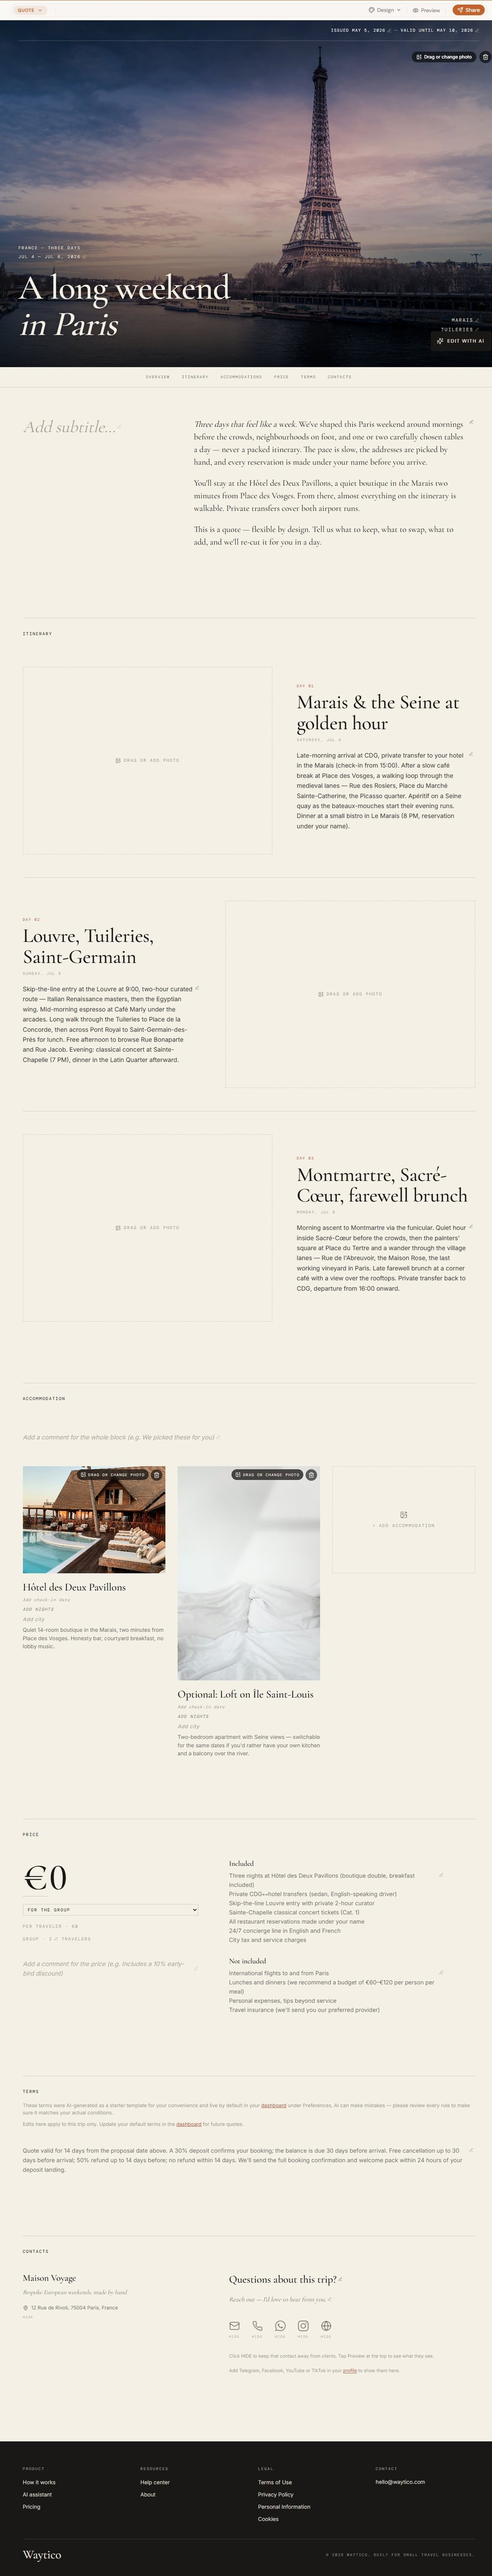
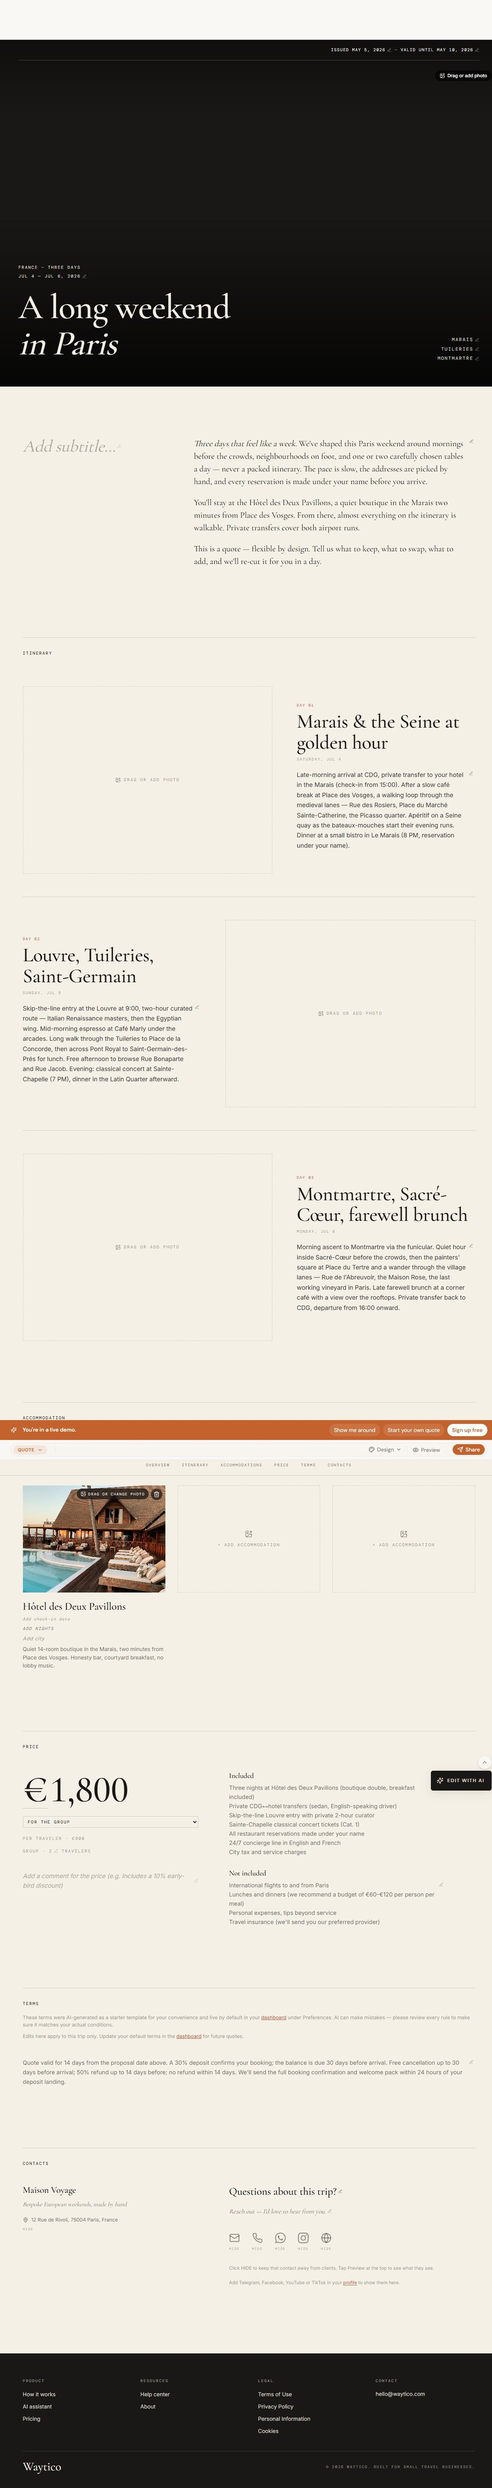
demo modal phase 3-4: empty hero base + side-flight photos + accelerating scroll
- Replaced desktop-page.jpg with Vadim's empty version (no day photos
  in screenshot, default black hero) — 1024 × 5173
- Cropped hero photo from the photo'd version → hero-photo.jpg (1024×721)
  overlay slides in from the right at phase 3 start (7.7s) covering
  the empty black hero
- Day photo overlays now slide IN from the side (left / right / left
  alternating) instead of dropping down. Reads as 'dragged in from a
  folder' without the cost of a per-photo cursor track (Vadim's opt-out
  accepted given the choreography complexity)
- Day positions re-calibrated to match new screenshot layout:
    Day 1 — left  x=50  y=1465  (was 1380)
    Day 2 — right x=460 y=1965  (was 2150)
    Day 3 — left  x=50  y=2440  (was 2920)
  All 510 × 320, vertically centred inside their placeholder rectangles
- Page scroll now LINEAR-EASE-IN (cubic-bezier(0.45, 0, 1, 1)) — slow
  start so the eye registers the new page, then accelerates through
  the content; ends at -4355 (bottom of screenshot, footer in view)
- Day photo timings re-spaced for the accelerating scroll:
    Day 1 — 11.3s   Day 2 — 12.6s   Day 3 — 14.6s
- Removed ~12 lines of multi-stop scroll keyframe waypoints (was a
  scroll-pause-scroll-pause sequence; now single continuous accelerated
  travel)
- accommodation-photo.jpg / hotel-photo.jpg removed from /public — the
  cabin photo is already baked into the new screenshot, no overlay
  needed

diff --git a/components/home-demo-modal/demo-modal.module.css b/components/home-demo-modal/demo-modal.module.css
@@ -396,54 +396,76 @@
   display: block;
 }
 .stage.playing .tripScroll {
-  /* Scrolls during phase 4 (9.5s - 17.5s = 8s). Translate values calibrated
-     so each Day's photo placeholder lands near the centre of the
-     720-px viewport (stage 794 - chrome 32 - sticky 42). */
-  animation: pageScroll 8s cubic-bezier(0.45, 0, 0.55, 1) 9.5s forwards;
+  /* Phase 4 scroll: 9.5s - 17.5s = 8s. Accelerating (ease-in) — slow start
+     so the eye settles on the new page, then accelerates through the
+     content. End offset takes the viewport all the way to the bottom of
+     the screenshot (footer + accommodations + price all rolled past). */
+  animation: pageScroll 8s cubic-bezier(0.45, 0, 1, 1) 9.5s forwards;
 }
 @keyframes pageScroll {
-  0%    { transform: translateY(0); }
-  /* 0 → 1.5s: scroll to Day 1 placeholder */
-  18.7% { transform: translateY(-1180px); }
-  /* hold while Day 1 photo lands */
-  31.2% { transform: translateY(-1180px); }
-  /* 2.5 → 3.3s: scroll to Day 2 */
-  41.2% { transform: translateY(-1950px); }
-  /* hold for Day 2 photo */
-  48.7% { transform: translateY(-1950px); }
-  /* to Day 3 */
-  57.5% { transform: translateY(-2720px); }
-  /* hold for Day 3 photo */
-  65.0% { transform: translateY(-2720px); }
-  /* through accommodations to price */
-  78.7% { transform: translateY(-3850px); }
-  /* hold during price typing + cursor to share */
-  100%  { transform: translateY(-3850px); }
+  0%   { transform: translateY(0); }
+  100% { transform: translateY(-4355px); }
 }
 
-/* Day photo overlays — absolute over .tripScroll, in screenshot coordinates */
+/* Hero photo overlay — slides in from the right at phase 3 start to
+   cover the trip page's empty (black) hero. */
+.heroPhoto {
+  position: absolute;
+  top: 0;
+  left: 0;
+  width: 100%;
+  height: 720px;
+  display: block;
+  opacity: 0;
+  z-index: 2;
+}
+.stage.playing .heroPhoto {
+  animation: photoSlideRight 0.9s cubic-bezier(0.2, 0.7, 0.3, 1) 7.7s forwards;
+}
+
+/* Day photo overlays — absolute over .tripScroll. Coordinates measured
+   against the new desktop-page.jpg (1024 × 5173). Each placeholder
+   rectangle in the screenshot:
+     Day 1 — left side,  ~y=1430..1820, ~510×390
+     Day 2 — right side, ~y=1925..2300, ~510×375
+     Day 3 — left side,  ~y=2400..2800, ~510×390
+   Photo files are 800×500 (1.6:1); displayed at 510×320 vertically
+   centred inside each placeholder. */
 .dayPhoto {
   position: absolute;
   display: block;
   opacity: 0;
   border-radius: 2px;
+  width: 510px;
+  height: 320px;
+  z-index: 3;
 }
-.day1Photo { left: 48px;  top: 1380px; width: 480px; height: 320px; }
-.day2Photo { left: 496px; top: 2150px; width: 480px; height: 320px; }
-.day3Photo { left: 48px;  top: 2920px; width: 480px; height: 320px; }
+.day1Photo { left: 50px;  top: 1465px; }
+.day2Photo { left: 460px; top: 1965px; }
+.day3Photo { left: 50px;  top: 2440px; }
 
 .stage.playing .day1Photo {
-  animation: photoIn 1s cubic-bezier(0.4, 0, 0.2, 1) 11.0s forwards;
+  animation: photoSlideLeft 0.7s cubic-bezier(0.2, 0.7, 0.3, 1) 11.3s forwards;
 }
 .stage.playing .day2Photo {
-  animation: photoIn 0.6s cubic-bezier(0.4, 0, 0.2, 1) 12.8s forwards;
+  animation: photoSlideRight 0.7s cubic-bezier(0.2, 0.7, 0.3, 1) 12.6s forwards;
 }
 .stage.playing .day3Photo {
-  animation: photoIn 0.6s cubic-bezier(0.4, 0, 0.2, 1) 14.1s forwards;
+  animation: photoSlideLeft 0.7s cubic-bezier(0.2, 0.7, 0.3, 1) 14.6s forwards;
 }
-@keyframes photoIn {
-  0%   { opacity: 0; transform: translateY(-24px) scale(0.96); }
-  100% { opacity: 1; transform: translateY(0)    scale(1); }
+
+/* Slide-from-side keyframes — photo flies in from off-screen edge to
+   its placeholder position. Reads as "dragged from a folder" without
+   the cost of a per-photo cursor track. */
+@keyframes photoSlideLeft {
+  0%   { opacity: 0; transform: translateX(-120%) scale(0.96); }
+  60%  { opacity: 1; }
+  100% { opacity: 1; transform: translateX(0) scale(1); }
+}
+@keyframes photoSlideRight {
+  0%   { opacity: 0; transform: translateX(120%) scale(0.96); }
+  60%  { opacity: 1; }
+  100% { opacity: 1; transform: translateX(0) scale(1); }
 }
 
 /* Cursor for phase 4 — appears in mid-page, travels to Share pill in

diff --git a/components/home-demo-modal/modal.tsx b/components/home-demo-modal/modal.tsx
@@ -425,6 +425,12 @@ export default function DemoModal({ isOpen, onClose, onMakeMyOwn }: DemoModalPro
                 />
                 {/* eslint-disable-next-line @next/next/no-img-element */}
                 <img
+                  src="/demo-modal/hero-photo.jpg"
+                  className={styles.heroPhoto}
+                  alt=""
+                />
+                {/* eslint-disable-next-line @next/next/no-img-element */}
+                <img
                   src="/demo-modal/day-1-photo.jpg"
                   className={cn(styles.dayPhoto, styles.day1Photo)}
                   alt=""
